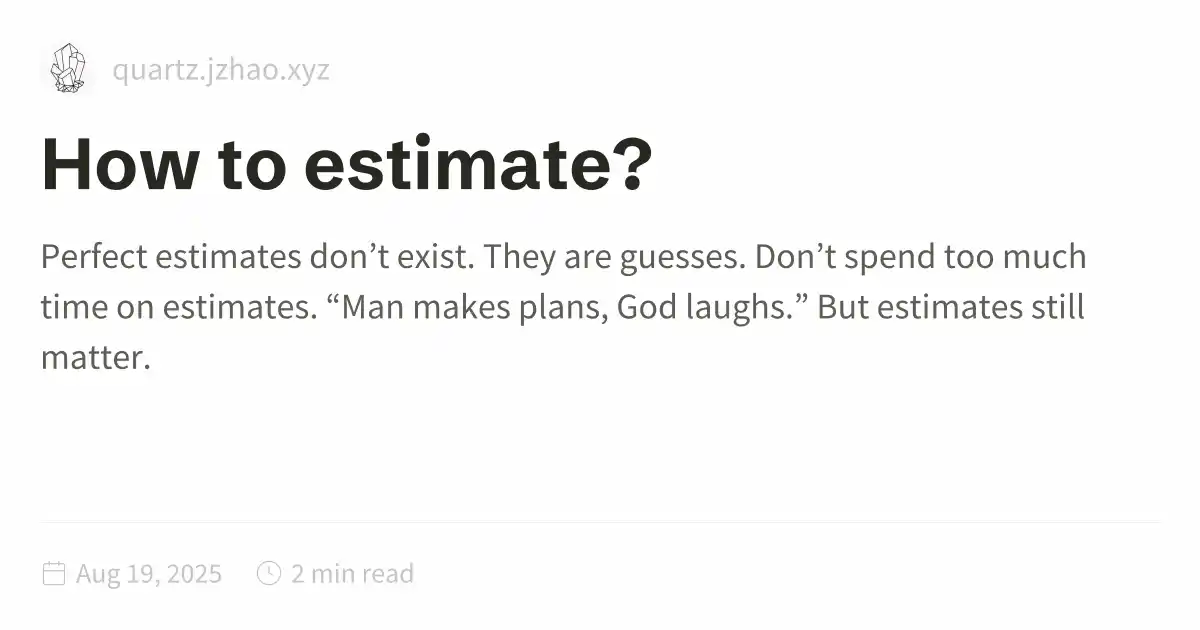
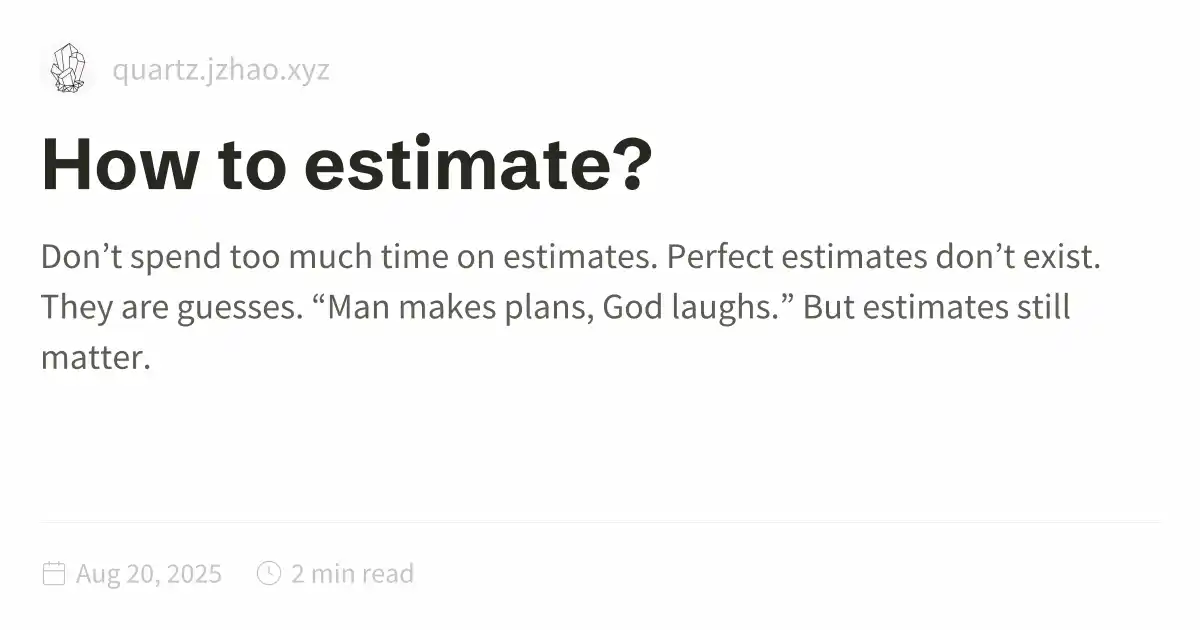
Quartz sync: Aug 20, 2025, 8:37 AM

Changed region(s): [[0.0308, 0.3921, 0.925, 0.5127]]

diff --git a/public/How-to-estimate.html b/public/How-to-estimate.html
@@ -1,5 +1,5 @@
 <!DOCTYPE html>
-<html lang="en"><head><title>How to estimate?</title><meta charset="utf-8"/><link rel="preconnect" href="https://fonts.googleapis.com"/><link rel="preconnect" href="https://fonts.gstatic.com"/><link rel="stylesheet" href="https://fonts.googleapis.com/css2?family=Schibsted Grotesk:wght@400;700&amp;family=Source Sans Pro:ital,wght@0,400;0,600;1,400;1,600&amp;family=IBM Plex Mono:wght@400;600&amp;display=swap"/><link rel="preconnect" href="https://cdnjs.cloudflare.com" crossorigin="anonymous"/><meta name="viewport" content="width=device-width, initial-scale=1.0"/><meta name="og:site_name" content="Essays"/><meta property="og:title" content="How to estimate?"/><meta property="og:type" content="website"/><meta name="twitter:card" content="summary_large_image"/><meta name="twitter:title" content="How to estimate?"/><meta name="twitter:description" content="Perfect estimates don’t exist. They are guesses. Don’t spend too much time on estimates. “Man makes plans, God laughs.” But estimates still matter."/><meta property="og:description" content="Perfect estimates don’t exist. They are guesses. Don’t spend too much time on estimates. “Man makes plans, God laughs.” But estimates still matter."/><meta property="og:image:alt" content="Perfect estimates don’t exist. They are guesses. Don’t spend too much time on estimates. “Man makes plans, God laughs.” But estimates still matter."/><meta property="twitter:domain" content="quartz.jzhao.xyz"/><meta property="og:url" content="https://quartz.jzhao.xyz/How-to-estimate"/><meta property="twitter:url" content="https://quartz.jzhao.xyz/How-to-estimate"/><link rel="icon" href="./static/icon.png"/><meta name="description" content="Perfect estimates don’t exist. They are guesses. Don’t spend too much time on estimates. “Man makes plans, God laughs.” But estimates still matter."/><meta name="generator" content="Quartz"/><link href="./index.css" rel="stylesheet" type="text/css" spa-preserve/><style>.expand-button {
+<html lang="en"><head><title>How to estimate?</title><meta charset="utf-8"/><link rel="preconnect" href="https://fonts.googleapis.com"/><link rel="preconnect" href="https://fonts.gstatic.com"/><link rel="stylesheet" href="https://fonts.googleapis.com/css2?family=Schibsted Grotesk:wght@400;700&amp;family=Source Sans Pro:ital,wght@0,400;0,600;1,400;1,600&amp;family=IBM Plex Mono:wght@400;600&amp;display=swap"/><link rel="preconnect" href="https://cdnjs.cloudflare.com" crossorigin="anonymous"/><meta name="viewport" content="width=device-width, initial-scale=1.0"/><meta name="og:site_name" content="Essays"/><meta property="og:title" content="How to estimate?"/><meta property="og:type" content="website"/><meta name="twitter:card" content="summary_large_image"/><meta name="twitter:title" content="How to estimate?"/><meta name="twitter:description" content="Don’t spend too much time on estimates. Perfect estimates don’t exist. They are guesses. “Man makes plans, God laughs.” But estimates still matter."/><meta property="og:description" content="Don’t spend too much time on estimates. Perfect estimates don’t exist. They are guesses. “Man makes plans, God laughs.” But estimates still matter."/><meta property="og:image:alt" content="Don’t spend too much time on estimates. Perfect estimates don’t exist. They are guesses. “Man makes plans, God laughs.” But estimates still matter."/><meta property="twitter:domain" content="quartz.jzhao.xyz"/><meta property="og:url" content="https://quartz.jzhao.xyz/How-to-estimate"/><meta property="twitter:url" content="https://quartz.jzhao.xyz/How-to-estimate"/><link rel="icon" href="./static/icon.png"/><meta name="description" content="Don’t spend too much time on estimates. Perfect estimates don’t exist. They are guesses. “Man makes plans, God laughs.” But estimates still matter."/><meta name="generator" content="Quartz"/><link href="./index.css" rel="stylesheet" type="text/css" spa-preserve/><style>.expand-button {
   position: absolute;
   display: flex;
   float: right;
@@ -116,9 +116,9 @@ pre:hover > .expand-button {
   padding: 0 12px;
   font-size: 14px;
 }
[2 lines of base64/hex data omitted]
+<p>Perfect estimates don’t exist.<br/>
 They are guesses.</p>
-<p>Don’t spend too much time on estimates.</p>
 <p>“Man makes plans, God laughs.”</p>
 <p>But estimates still matter.<br/>
 They tell you how much a project costs.<br/>

diff --git a/content/How to estimate?.md b/content/How to estimate?.md
@@ -2,10 +2,10 @@
 title: How to estimate?
 draft: false
 ---
+Don't spend too much time on estimates.  
+
 Perfect estimates don't exist.  
 They are guesses.   
-
-Don't spend too much time on estimates.  
 
 "Man makes plans, God laughs."  
 
